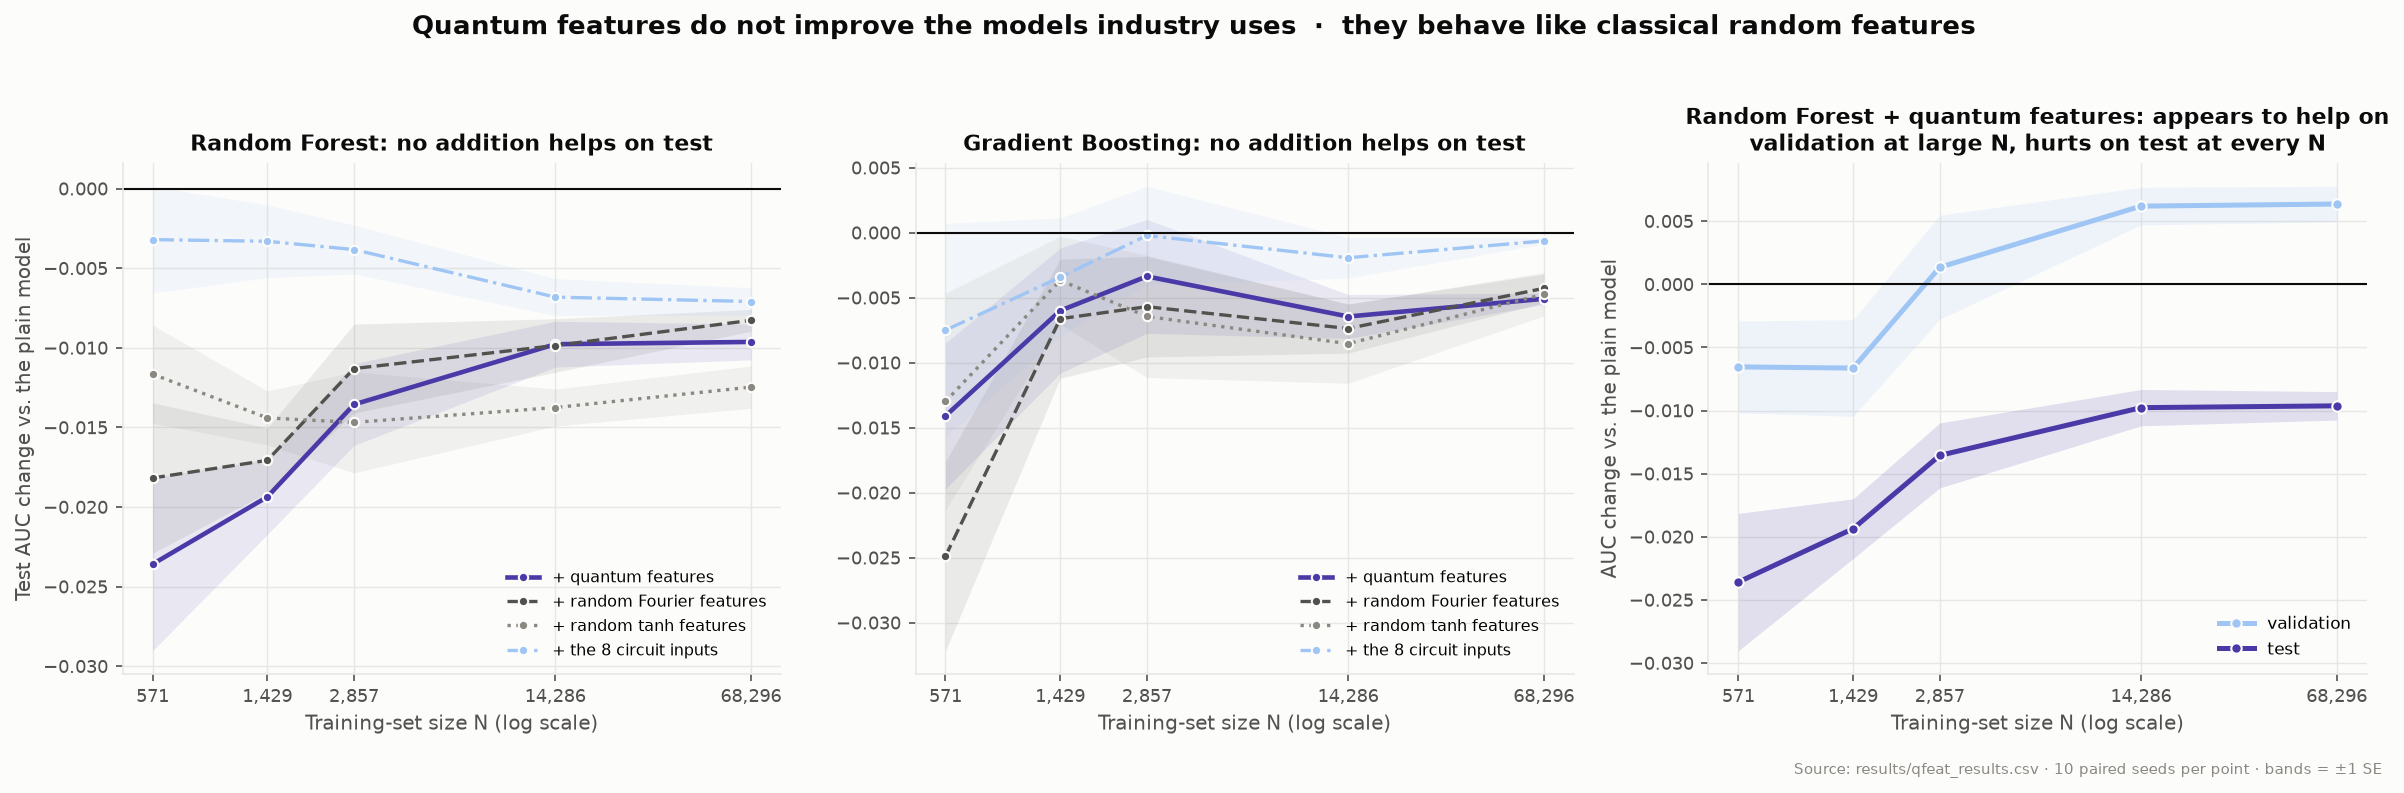
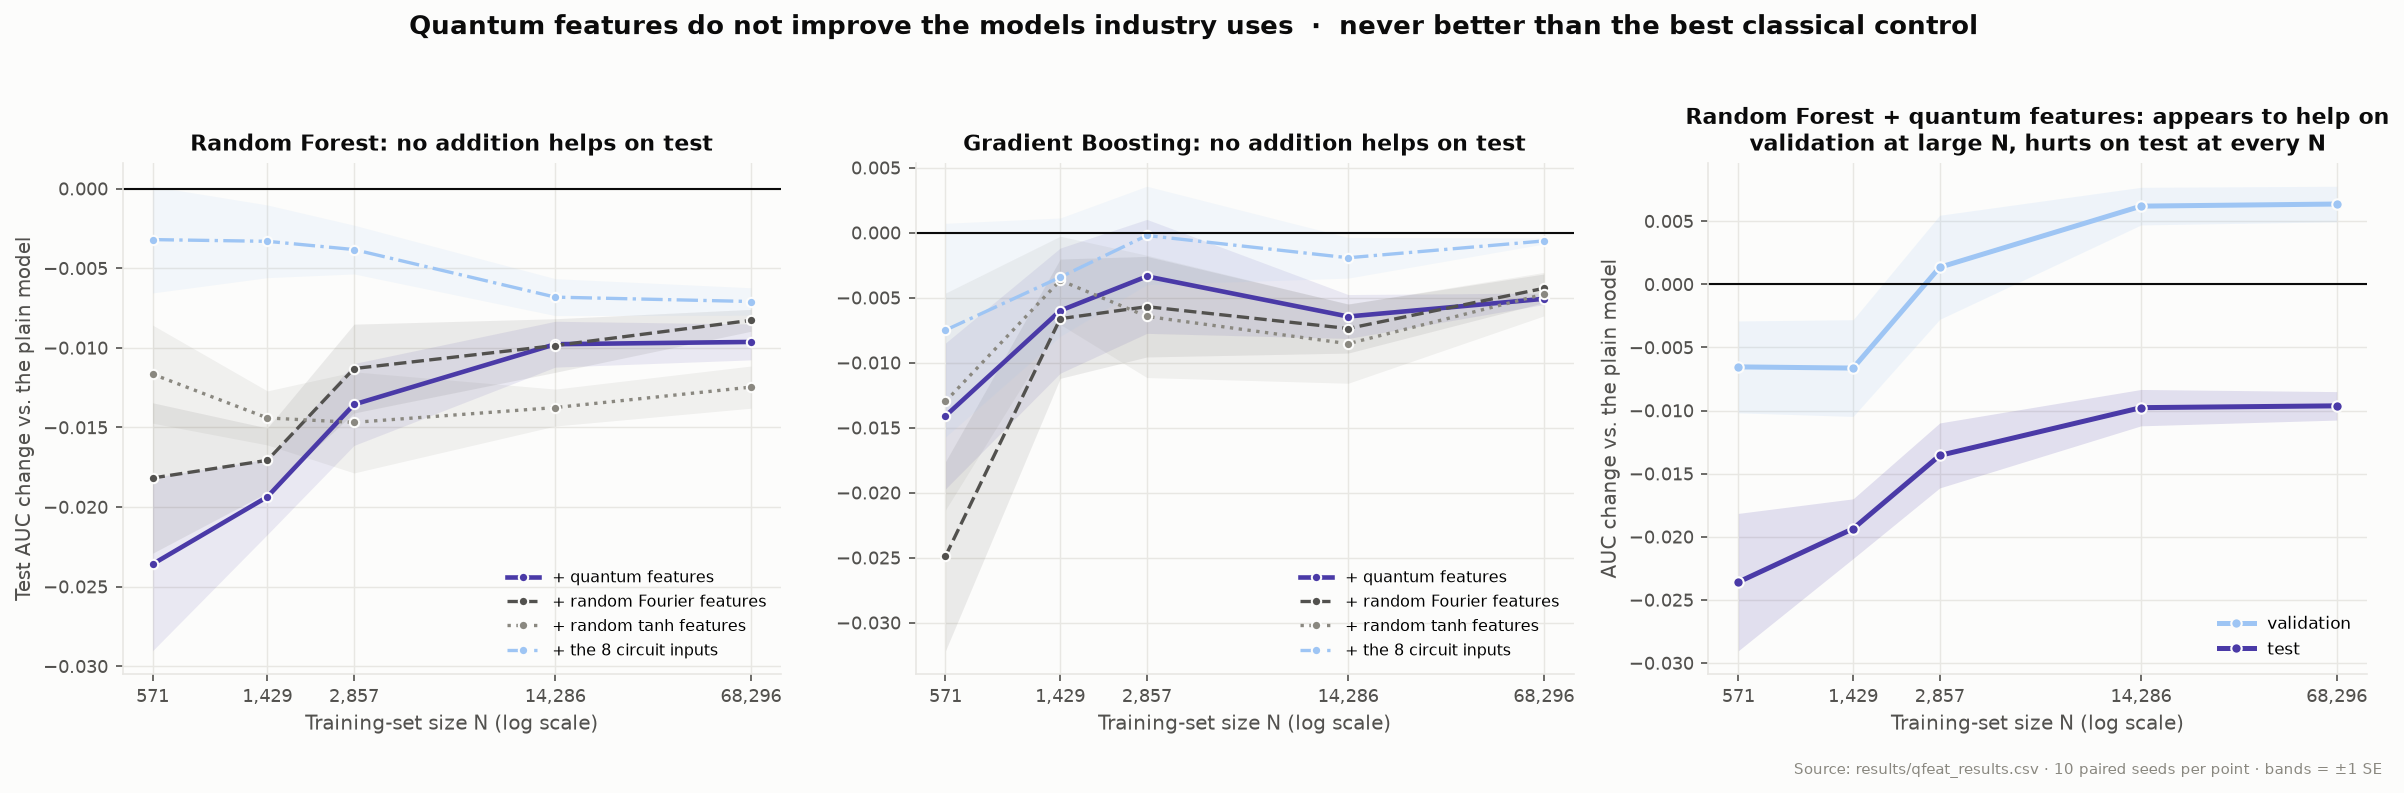
First PDF build of the paper; one-command build script
paper/build.ps1 regenerates every table from the CSVs, then runs
pdflatex -> bibtex -> pdflatex x2 and reports pages, errors, undefined
references and overflows. First build: 8 pages, 0 errors, 0 undefined
references. The one remaining overflow is a figures-only page and goes away
once the prose exists. LaTeX build output is gitignored.

Fixed by the first compile:
  - empty bibliography (no \cite yet) is a LaTeX error: \nocite{*} added for
    the draft, marked to delete once the text cites;
  - the model table ran 69pt past its column: single-column tables now use a
    smaller face and shorter labels.

Wording: "quantum features behave like classical random features" overstated
it -- they beat the random-Fourier control once (gradient boosting, N=571,
p=0.037). What holds everywhere: never better than the best classical
control. Corrected in README, RESEARCH_QUESTION, RESULTS_FOLLOWUP,
PAPER_OUTLINE, main.tex, figure 21 and the summary page.

Changed region(s): [[0.156, 0.0, 0.8111, 0.0605]]

diff --git a/scripts/27_paper_tables.py b/scripts/27_paper_tables.py
@@ -53,6 +53,9 @@ def table(name, caption, label, header, rows, align, note=None, star=False):
     env = "table*" if star else "table"
     L = [f"% GENERATED by scripts/27_paper_tables.py -- do not edit by hand",
          f"\\begin{{{env}}}[t]", "\\centering",
+         # single-column tables get a smaller face and tighter columns so they fit
+         # the 3.5-inch IEEE column; full-width tables keep the normal size
+         *([] if star else ["\\footnotesize", "\\setlength{\\tabcolsep}{4pt}"]),
          f"\\caption{{{caption}}}", f"\\label{{{label}}}",
          f"\\begin{{tabular}}{{{align}}}", "\\toprule", header + " \\\\", "\\midrule"]
     L += [r + " \\\\" for r in rows]
@@ -87,9 +90,10 @@ def main():
     QS = ("Q_reup", "Q_pre", "Q_frozen")
     qp = {q: sw.q_params(sw.QARCH[q]) for q in QS}   # q_params takes the architecture dict
     cp = sw.CPARAMS
-    rows = [f"{NAME[q]} & {qp[q]} & {cp[sw.TWIN[q]]} & matched twin" for q in QS]
-    rows += [f"{NAME[sw.TWIN[q]]} & {cp[sw.TWIN[q]]} & --- & matched to {NAME[q].split(', ')[1]}"
-             for q in QS]
+    # short labels: the full names push this table past the 3.5-inch column
+    SHORT = {"Q_reup": "re-uploading", "Q_pre": "pre-layer", "Q_frozen": "frozen"}
+    rows = [f"HQNN, {SHORT[q]} & {qp[q]} & {cp[sw.TWIN[q]]} & matched twin" for q in QS]
+    rows += [f"Twin of {SHORT[q]} & {cp[sw.TWIN[q]]} & --- & matched" for q in QS]
     rows += ["Quantum SVM & 0 (kernel) & --- & none",
              "Gradient boosting & --- & --- & none",
              "Random forest & --- & --- & none",

diff --git a/paper/tables/tab_models.tex b/paper/tables/tab_models.tex
@@ -1,18 +1,20 @@
 % GENERATED by scripts/27_paper_tables.py -- do not edit by hand
 \begin{table}[t]
 \centering
+\footnotesize
+\setlength{\tabcolsep}{4pt}
 \caption{Model inventory. $T$ counts trainable parameters. Every hybrid quantum network is matched to a classical twin of equal depth whose parameter count is never lower.}
 \label{tab:models}
 \begin{tabular}{lrrl}
 \toprule
 Model & $T$ & Twin $T$ & Constraint \\
 \midrule
-HQNN, data re-uploading & 161 & 165 & matched twin \\
-HQNN, classical pre-layer & 154 & 155 & matched twin \\
-HQNN, frozen circuit (control) & 106 & 111 & matched twin \\
-Twin of re-uploading HQNN & 165 & --- & matched to data re-uploading \\
-Twin of pre-layer HQNN & 155 & --- & matched to classical pre-layer \\
-Twin of frozen HQNN & 111 & --- & matched to frozen circuit (control) \\
+HQNN, re-uploading & 161 & 165 & matched twin \\
+HQNN, pre-layer & 154 & 155 & matched twin \\
+HQNN, frozen & 106 & 111 & matched twin \\
+Twin of re-uploading & 165 & --- & matched \\
+Twin of pre-layer & 155 & --- & matched \\
+Twin of frozen & 111 & --- & matched \\
 Quantum SVM & 0 (kernel) & --- & none \\
 Gradient boosting & --- & --- & none \\
 Random forest & --- & --- & none \\

diff --git a/paper/main.tex b/paper/main.tex
@@ -376,7 +376,8 @@ generalisation.
 % can at no more than g^2 times the complexity. On the real labels at 571 the
 % quantum kernel is simpler on 5 of 5 seeds; that edge is gone by 1,429.
 % Quantum features added to random forest and gradient boosting make both
-% WORSE, and behave like classical random features.
+% WORSE, and are never better than the best classical control (they beat the
+% random-Fourier control once: gradient boosting at N=571, p=0.037).
 % REPORT THE VALIDATION/TEST REVERSAL: on validation the quantum features beat
 % every control for random forest at large N; on test the same comparison
 % reversed. It is a methodological contribution, not an embarrassment.
@@ -517,6 +518,11 @@ generalisation.
 \section*{Acknowledgment}
 % Optional.
 
+% DRAFT ONLY: \nocite{*} lists every entry in refs.bib so the reference list
+% renders before the prose cites anything (an empty list is a LaTeX error).
+% DELETE this line once the text has its \cite commands, so the final paper
+% lists only the references it actually cites.
+\nocite{*}
 \bibliographystyle{IEEEtran}
 \bibliography{refs}
 

diff --git a/scripts/28_paper_figures.py b/scripts/28_paper_figures.py
@@ -425,8 +425,8 @@ def fig_qfeatures():
                  fontsize=10.5)
     ax.set_ylabel("AUC change vs. the plain model")
     ax.legend(loc="lower right", fontsize=8.2); tidy(ax)
-    fig.suptitle("Quantum features do not improve the models industry uses  ·  they behave like classical "
-                 "random features", fontsize=12.5, fontweight="bold", color=INK, y=1.03)
+    fig.suptitle("Quantum features do not improve the models industry uses  ·  never better than the "
+                 "best classical control", fontsize=12.5, fontweight="bold", color=INK, y=1.03)
     fig.tight_layout()
     save(fig, "21_quantum_features.png", "results/qfeat_results.csv · 10 paired seeds per point · bands = ±1 SE")
 

diff --git a/paper/tables/tab_geometric.tex b/paper/tables/tab_geometric.tex
@@ -1,6 +1,8 @@
 % GENERATED by scripts/27_paper_tables.py -- do not edit by hand
 \begin{table}[t]
 \centering
+\footnotesize
+\setlength{\tabcolsep}{4pt}
 \caption{Geometric difference between the quantum kernel and the best classical kernel that can fit the data, against the largest value it could take. A classical kernel can learn any function the quantum kernel can, at no more than $g^{2}$ times the model complexity.}
 \label{tab:geometric}
 \begin{tabular}{lrrr}

diff --git a/paper/tables/tab_qfeatures.tex b/paper/tables/tab_qfeatures.tex
@@ -1,6 +1,8 @@
 % GENERATED by scripts/27_paper_tables.py -- do not edit by hand
 \begin{table}[t]
 \centering
+\footnotesize
+\setlength{\tabcolsep}{4pt}
 \caption{Quantum features added to the two strongest classical models, against the plain model and against classical random features of the same count. Negative means the quantum features made the model worse. Ten paired seeds, test set.}
 \label{tab:qfeatures}
 \begin{tabular}{lrr}

diff --git a/paper/tables/tab_endpoints.tex b/paper/tables/tab_endpoints.tex
@@ -1,6 +1,8 @@
 % GENERATED by scripts/27_paper_tables.py -- do not edit by hand
 \begin{table}[t]
 \centering
+\footnotesize
+\setlength{\tabcolsep}{4pt}
 \caption{Quantum minus its matched classical twin on the test set, at the two endpoints. Ten paired seeds, Wilcoxon signed-rank.}
 \label{tab:endpoints}
 \begin{tabular}{lrrrr}

diff --git a/paper/tables/tab_dataset.tex b/paper/tables/tab_dataset.tex
@@ -1,6 +1,8 @@
 % GENERATED by scripts/27_paper_tables.py -- do not edit by hand
 \begin{table}[t]
 \centering
+\footnotesize
+\setlength{\tabcolsep}{4pt}
 \caption{The dataset. Splits are vessel-disjoint: no MMSI appears in more than one split.}
 \label{tab:dataset}
 \begin{tabular}{lrrrr}

diff --git a/docs/RESULTS_FOLLOWUP.md b/docs/RESULTS_FOLLOWUP.md
@@ -35,7 +35,7 @@ Test AUC, mean of 10 seeds:
 - **+Q is below base in all 10 cells**: significantly for Random Forest at all five
   sizes (−0.010 to −0.024, every p ≤ 0.004) and for Gradient Boosting at three
   (N = 571, 14,286, 68,296).
-- **+Q behaves like classical random features.** Against +RFF, the matched
+- **+Q is never better than the best classical control.** Against +RFF, the matched
   classical random-feature control, no Random Forest difference is significant at
   any size. Adding *any* 16 random nonlinear features dilutes a tree ensemble,
   quantum or not.
@@ -116,8 +116,9 @@ count, so a 12-qubit map could leave more room.
 
 ## What this adds to the paper
 
-1. **Quantum features do not help the models industry uses.** They act like
-   classical random features and lower test AUC. There is no hybrid "quantum
+1. **Quantum features do not help the models industry uses.** They lower test
+   AUC and are never better than the best classical control built from the same
+   inputs. There is no hybrid "quantum
    feature + Random Forest" advantage on AIS data at 8 qubits.
 2. **The geometric difference puts a number on the ceiling.** A classical kernel
    is within a factor of about 3–4 of the quantum kernel on every possible task,

diff --git a/README.md b/README.md
@@ -41,8 +41,8 @@ study. The Quantum Support Vector Machine is the only quantum model that does no
 collapse with scarce data, beating all seven neural networks at N = 571.
 
 **4. Two follow-ups closed off two hypotheses.** Quantum features do not improve
-Random Forest or Gradient Boosting — they behave like classical random features
-and lower test AUC. The geometric difference of Huang et al. (2021) puts a
+Random Forest or Gradient Boosting: they lower test AUC and are never better than
+the best classical random-feature control built from the same inputs. The geometric difference of Huang et al. (2021) puts a
 measured ceiling on any quantum-kernel advantage here: 2.9 at N = 571 against a
 maximum possible 23.9.
 

diff --git a/docs/PAPER_OUTLINE.md b/docs/PAPER_OUTLINE.md
@@ -190,7 +190,8 @@ variational optimisation, not to quantum feature maps.
 **5.4 (SQ4) A measured ceiling, and a negative result for quantum features** —
 from `RESULTS_FOLLOWUP.md`; figures `20_geometric_difference` and `21_quantum_features`.
 Geometric difference 2.9 of 23.9 and 3.8 of 37.8. Quantum features make Random
-Forest and Gradient Boosting worse and behave like classical random features.
+Forest and Gradient Boosting worse and are never better than the best classical
+control (they beat the random-Fourier control once: gradient boosting, N = 571).
 **Report the validation/test reversal here** — it is a genuine methodological
 contribution, not an embarrassment.
 

diff --git a/docs/RESEARCH_QUESTION.md b/docs/RESEARCH_QUESTION.md
@@ -95,7 +95,8 @@ quantum kernel describes the data more simply than any classical kernel, on 5 of
 5 seeds. That edge is gone by 1,429.
 
 Separately, quantum features added to Random Forest and Gradient Boosting made
-both **worse** on test, and behaved statistically like classical random features.
+both **worse** on test, and were never better than the best classical control
+built from the same inputs.
 
 *Evidence:* `RESULTS_FOLLOWUP.md` §1–2.
 
